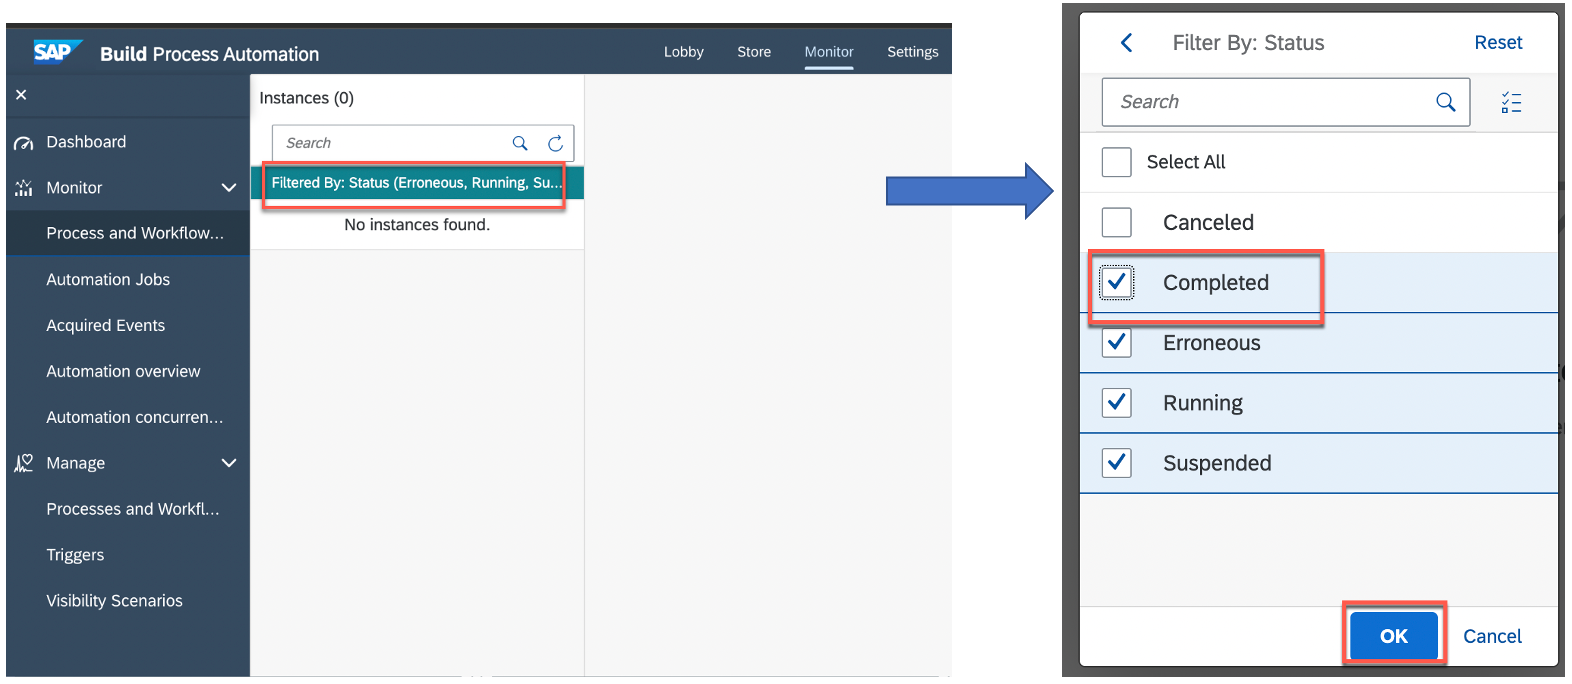
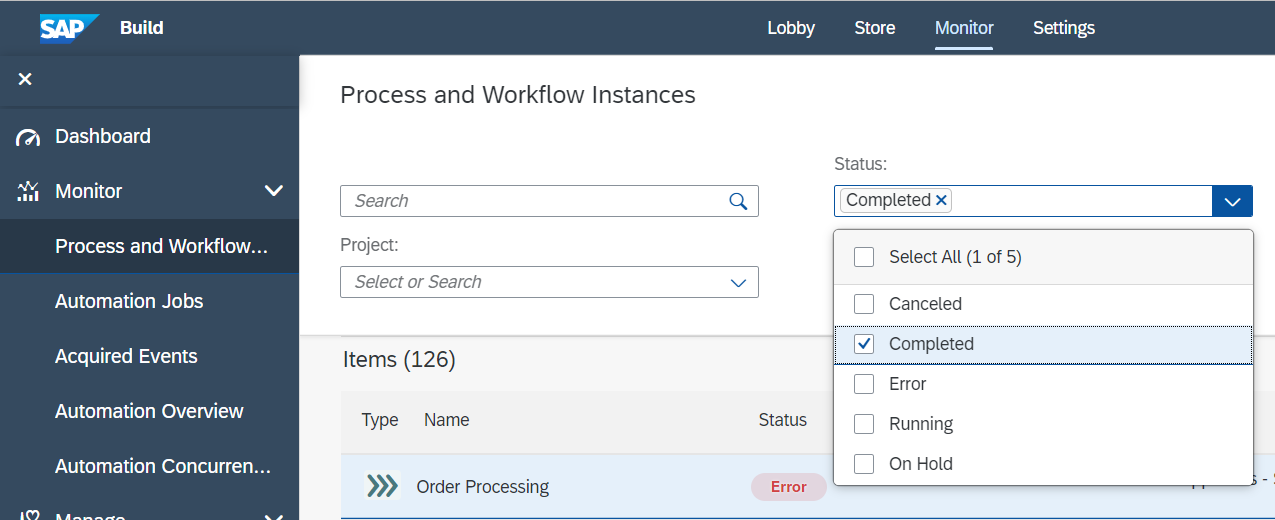
updates

diff --git a/tutorials/spa-process-action-create/spa-process-action-create.md b/tutorials/spa-process-action-create/spa-process-action-create.md
@@ -89,7 +89,7 @@ The same scenario can be used for posting an invoice to the S/4HANA system after
 
     <!-- border -->![Action Project](ActionProject_08.png)
 
-    - Change the name to **Create a sales order**.
+    - Change the name to **Creates a sales order**.
     - Once done, select **check** icon to submit the changes.
 
     <!-- border -->![Action Project](ActionProject_09.png)
@@ -156,7 +156,7 @@ The same scenario can be used for posting an invoice to the S/4HANA system after
 
     - In the popup, enter **/** and click **Enable**.
 
-    > Action project uses Destination service to execute the API. In the destination you have already create the URL Path as `https://my-api.s4hana.cloud.sap/sap/opu/odata/sap/API_SALES_ORDER_SRV` to call the API. So, while configuring XSRF token path you do not have to enter any explicit path rather use standard URL configured in the destination.
+    > Action project uses Destination service to execute the API. In the destination you have already created the URL Path as `https://my-api.s4hana.cloud.sap/sap/opu/odata/sap/API_SALES_ORDER_SRV` to call the API. So, while configuring CSRF token path you do not have to enter any explicit path rather use standard URL configured in the destination.
 
     <!-- border -->![Action Project](ActionProject_15.png)
 
@@ -236,7 +236,7 @@ You will now release the action project to create version(s) and then publish a 
 
 ### Publish action project
 
-Once the action project is released, you can the publish any release version of the action by clicking **Publish to Library** from top-right corner.
+Once the action project is released, you can then publish any release version of the action by clicking **Publish to Library** from top-right corner.
 
 <!-- border -->![Action Project](ActionProject_22.png)
 

diff --git a/tutorials/spa-process-action-checkbackend/spa-process-action-checkbackend.md b/tutorials/spa-process-action-checkbackend/spa-process-action-checkbackend.md
@@ -28,14 +28,14 @@ Once the business process is successfully executed, a sales order will be create
 
     <!-- border -->![Access System](AccessSystem_02c.png)
 
-    - Click to filter **COMPLETED** instances.
+    - Click to filter **Completed** instances.
 
     <!-- border -->![Access System](AccessSystem_02a.png)
 
     - Search for your Order Processing Instance.
-    - Click **EXECUTION LOG** tab.
+    - Click **Logs** tab.
     - Check if the **Action** is completed.
-    - Open **CONTEXT** tab.
+    - Open **Context** tab.
     - Copy the sales order number.
 
     > This is the sales order that is newly created in the backend S/4HANA system.

diff --git a/tutorials/spa-process-action-run/spa-process-action-run.md b/tutorials/spa-process-action-run/spa-process-action-run.md
@@ -70,7 +70,7 @@ parser: v2
 
     <!-- border -->![Run Process](RunProcess-04a.png)
 
-    - Go to **Lsog** and you will see that the user task is waiting to be approved.
+    - Go to **Logs** and you will see that the user task is waiting to be approved.
 
     <!-- border -->![Run Process](RunProcess-05.png)
 
